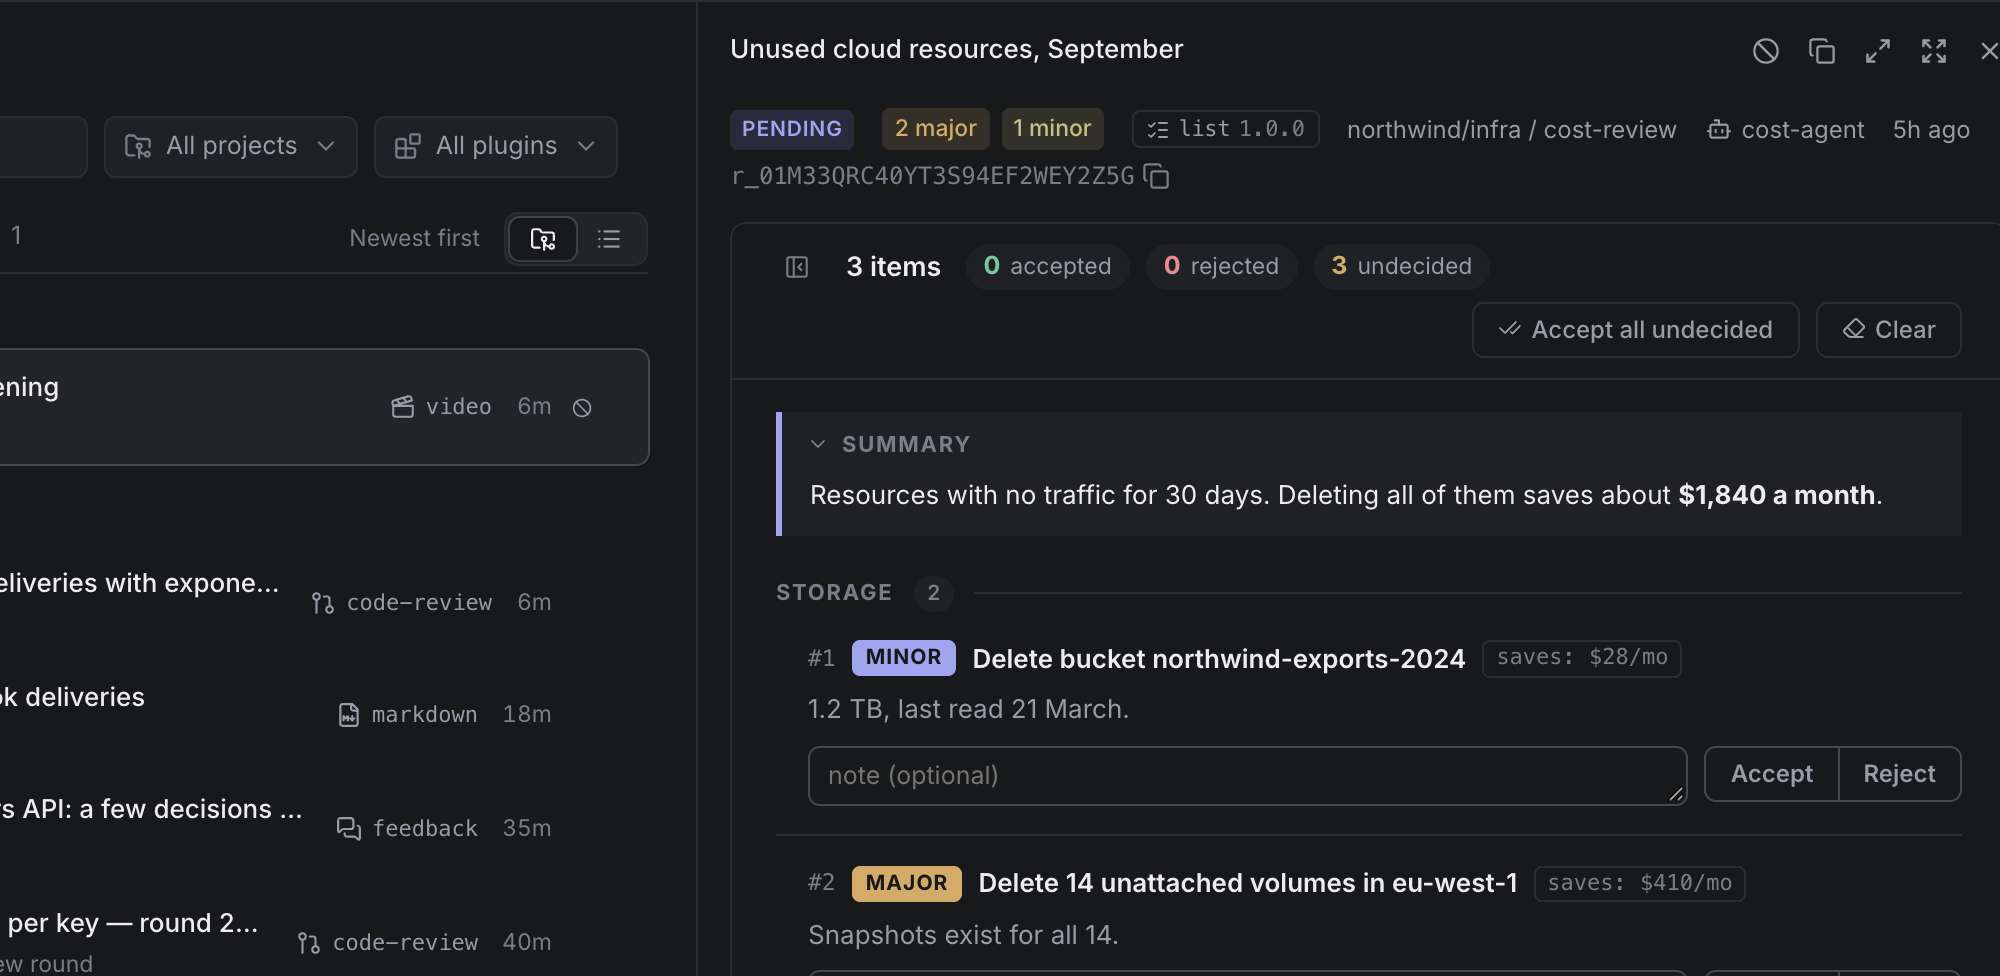
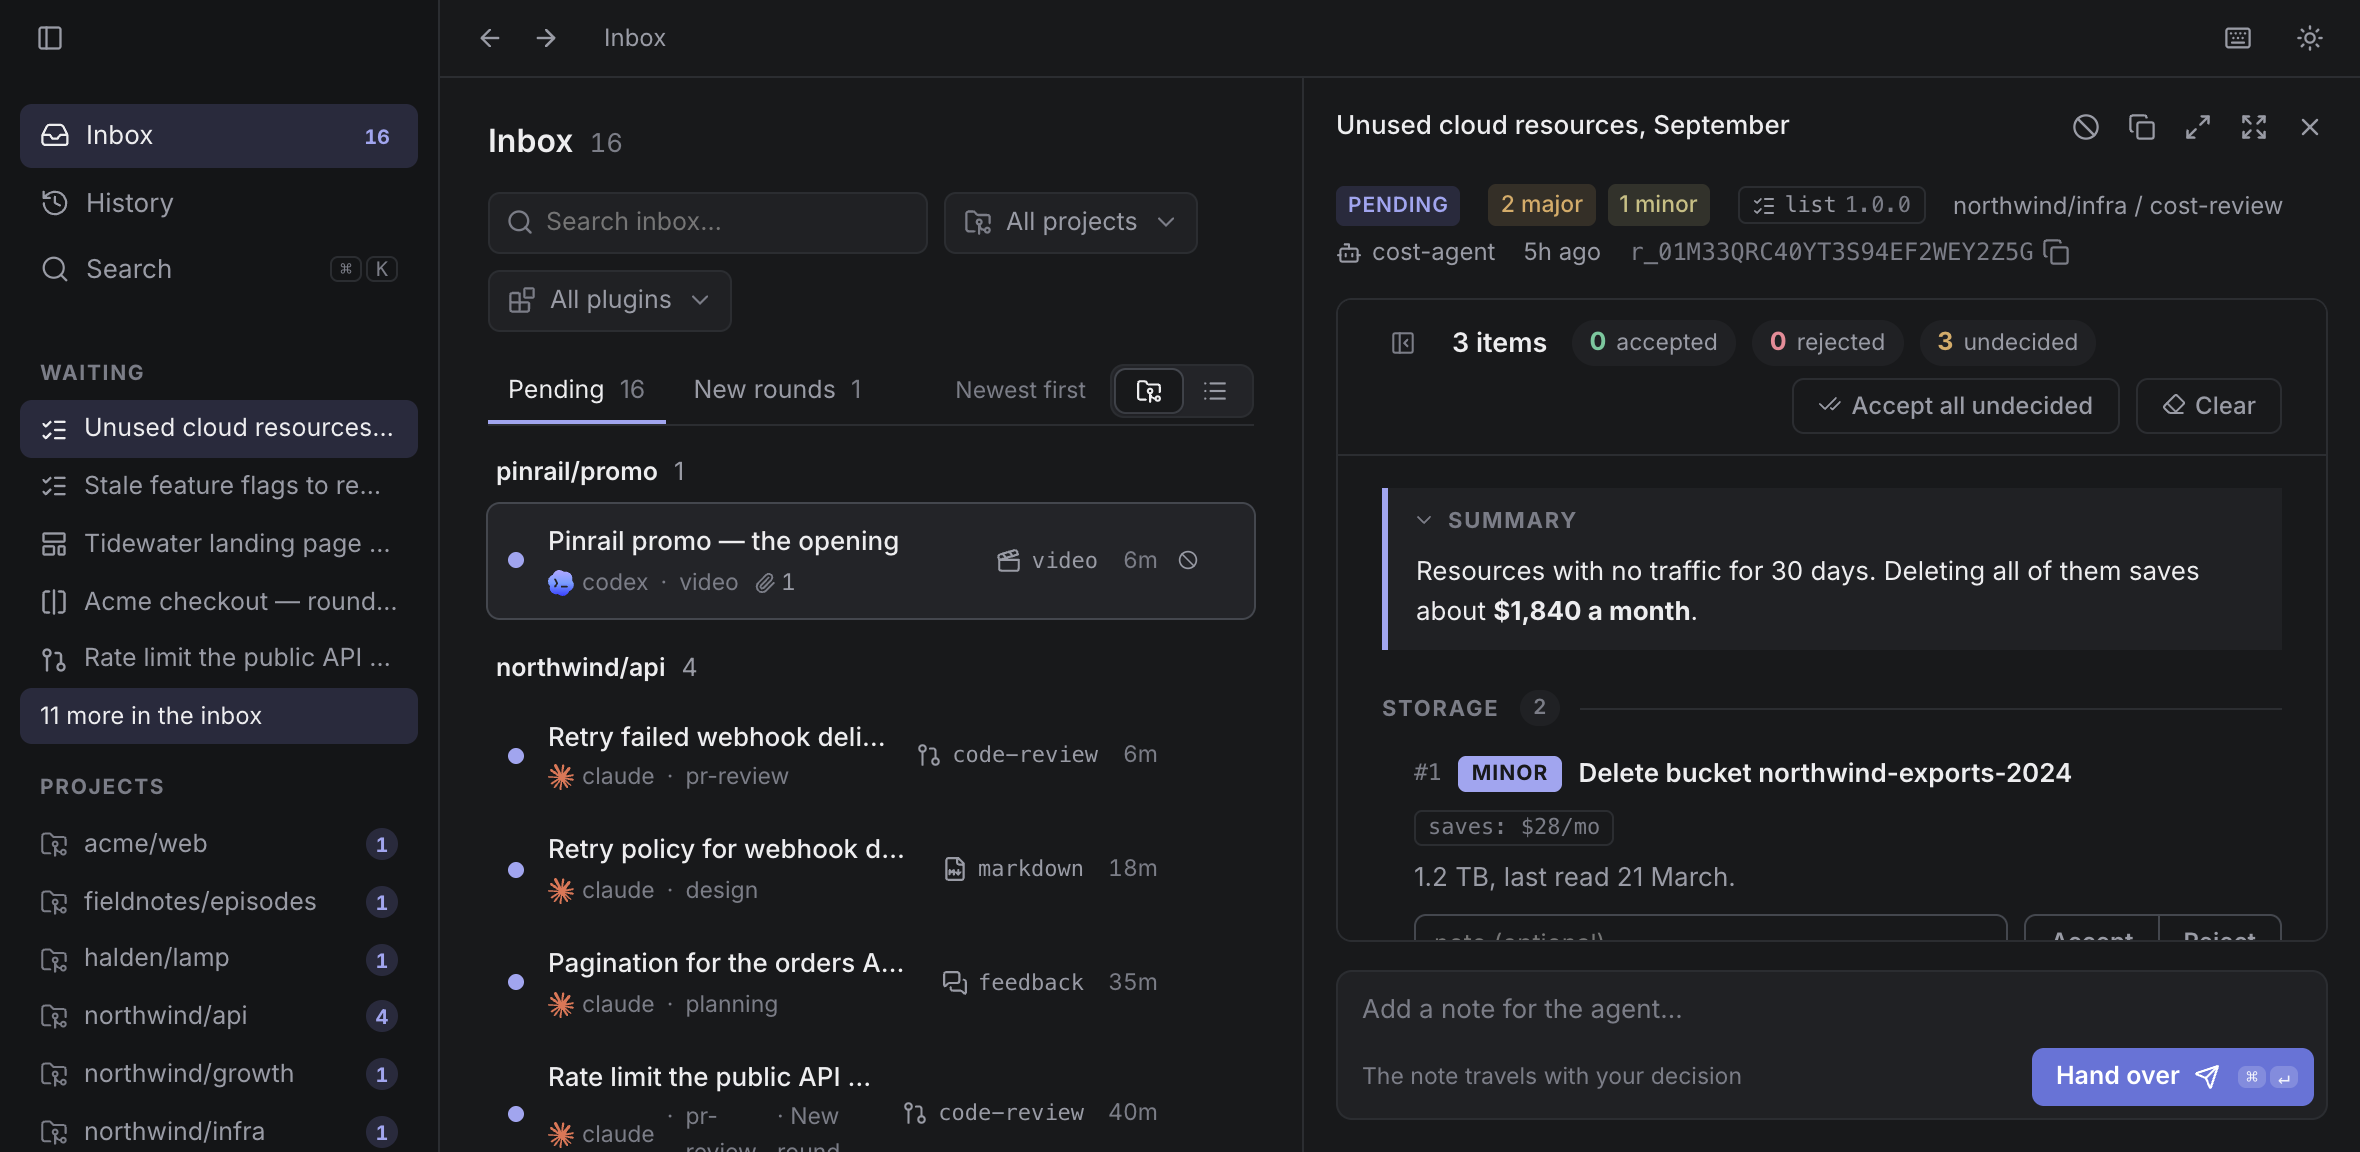
Show the whole window in what's new pictures
The pictures were slices of the window cropped to the dialog's shape,
which cut words off at their edges. Each scene now shoots the whole
window at 1180 by 576, the shape of the dialog's picture, and the dialog
shows it framed as a small window on a tinted ground. The dialog is
wider to give the picture room, and the card field that chose the crop
is gone.

Assisted-by: Claude Code (Claude Opus 5.5)

diff --git a/desktop/app/ui/src/theme.css b/desktop/app/ui/src/theme.css
@@ -1073,7 +1073,7 @@ body.is-resizing iframe {
 }
 /* What's new: one card at a time, its picture across the top */
 .whats-new {
-  width: min(720px, calc(100vw - 32px));
+  width: min(860px, calc(100vw - 32px));
   max-height: calc(100vh - 48px);
   display: flex;
   flex-direction: column;
@@ -1108,23 +1108,26 @@ body.is-resizing iframe {
   border-radius: 4px;
   padding: 3px 8px;
 }
+/* the picture: the whole app window, small and framed, on a tinted ground */
 .whats-new-picture {
   margin: 0 22px;
-  aspect-ratio: 2.05;
   flex: none;
-  border: 1px solid var(--border);
-  border-radius: 10px;
-  background: var(--bg-raised);
-  overflow: hidden;
+  padding: 18px 22px;
+  border-radius: 12px;
+  background: var(--accent-bg);
   display: grid;
   place-items: center;
+  min-height: 200px;
   color: var(--accent);
 }
 .whats-new-picture img {
-  width: 100%;
-  height: 100%;
-  object-fit: cover;
   display: block;
+  width: 100%;
+  height: auto;
+  aspect-ratio: 1180 / 576;
+  border: 1px solid var(--border-strong);
+  border-radius: 8px;
+  box-shadow: 0 10px 28px rgb(0 0 0 / 0.16);
 }
 .whats-new-text {
   padding: 18px 22px 4px;

diff --git a/desktop/app/ui/src/components/WhatsNewDialog.tsx b/desktop/app/ui/src/components/WhatsNewDialog.tsx
@@ -75,7 +75,7 @@ export function WhatsNewDialog({
         </header>
         <div className="whats-new-picture">
           {picture ? (
-            <img src={picture} alt={card.alt ?? ""} style={{ objectPosition: card.focus ?? "center top" }} />
+            <img src={picture} alt={card.alt ?? ""} />
           ) : (
             <Sparkles size={40} strokeWidth={1.25} aria-hidden="true" />
           )}

diff --git a/desktop/app/ui/src/lib/whatsNew.ts b/desktop/app/ui/src/lib/whatsNew.ts
@@ -15,8 +15,6 @@ export type Card = {
   image?: string;
   /** what the picture shows, for a screen reader */
   alt?: string;
-  /** which part of the picture to keep when it is cropped, as CSS object-position */
-  focus?: string;
   action?: CardAction;
 };
 

diff --git a/desktop/app/ui/src/whats-new/README.md b/desktop/app/ui/src/whats-new/README.md
@@ -14,13 +14,13 @@ changelog. Each card has:
 | `text` | One or two sentences. |
 | `image` | Optional. The name of a screenshot scene in `e2e/screenshots/scenes.mjs`. |
 | `alt` | What the picture shows, for a screen reader. Required with `image`. |
-| `focus` | Optional. Which part of the picture to keep when it is cropped, as CSS `object-position`. |
 | `action` | Optional. A button that opens the change: `{"label": "Open the inbox", "to": "/"}` for a screen, or `{"label": "Open Plugins", "settings": "plugins"}` for a section of Settings. |
 
 The screenshot run makes the pictures: a scene whose name a card gives as
 its `image` is saved here as `<version>/<image>-light.png` and
-`<image>-dark.png`. Crop a scene to the part that changed, about twice as
-wide as it is high, so its text stays readable in the dialog:
+`<image>-dark.png`. A scene shows the whole window at 1180 by 576, the
+shape of the dialog's picture, with the change on screen; it does not
+crop, so nothing is cut off at the edges:
 
 ```sh
 mise run screenshots -- --only inbox-panel
